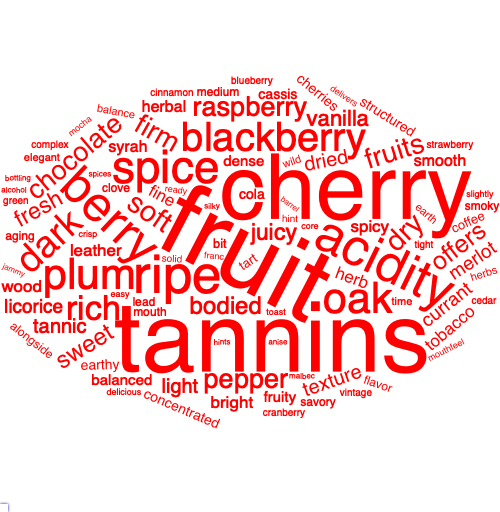
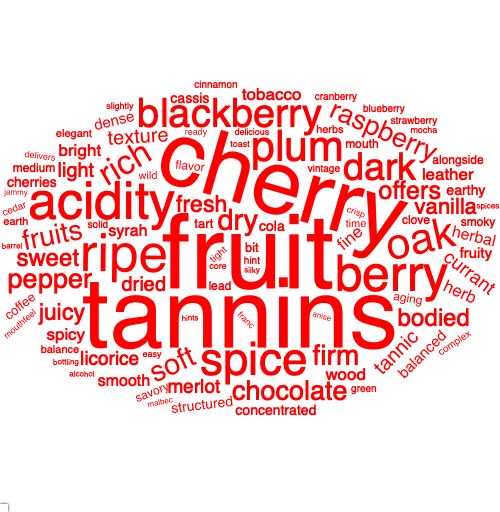
add more word cloud to exloratory analysis

Changed region(s): [[0.0, 0.125, 1.0, 0.8438]]

diff --git a/word_cloud.html b/word_cloud.html
@@ -523,22 +523,64 @@ low_sparkling = sparkling_df %&gt;% filter(points &lt; 90)</code></pre>
   
   # plot word cloud
   wine_word %&gt;% head(100) %&gt;% 
-    wordcloud2(size = 0.58, color = color1, backgroundColor =   color2)
+    wordcloud2(size = 0.58, color = color1, backgroundColor = color2)
 }
 
-#par(mfrow = c(3,2))
-wine_word_cloud(red_df, &quot;red&quot;, &quot;white&quot;) </code></pre>
-<div id="htmlwidget-67bbcf32ebb02c73014a" style="width:672px;height:480px;" class="wordcloud2 html-widget"></div>
-<script type="application/json" data-for="htmlwidget-67bbcf32ebb02c73014a">{"x":{"word":["fruit","tannins","cherry","ripe","acidity","berry","spice","plum","oak","blackberry","dark","rich","soft","dry","firm","fruits","pepper","raspberry","chocolate","offers","sweet","bodied","fresh","juicy","vanilla","texture","dried","light","tannic","currant","merlot","licorice","bright","leather","spicy","herb","tobacco","fine","wood","syrah","herbal","smooth","dense","fruity","balanced","structured","earthy","cassis","concentrated","cola","cherries","coffee","tart","bit","medium","mouth","aging","clove","alongside","smoky","savory","lead","flavor","balance","herbs","time","earth","wild","elegant","hint","vintage","green","complex","cranberry","cinnamon","solid","strawberry","tight","cedar","blueberry","delicious","toast","delivers","mouthfeel","mocha","crisp","franc","core","ready","slightly","easy","barrel","jammy","spices","alcohol","hints","silky","anise","bottling","malbec"],"freq":[30430,28460,26415,15588,15207,14536,13550,12561,12496,11631,11098,9970,8523,8438,8041,8018,8007,7992,7890,7316,7048,7030,6737,6688,6412,5942,5934,5728,5718,5652,5633,5560,5021,4884,4880,4870,4863,4845,4844,4694,4664,4628,4484,4429,4273,4143,4117,4113,4059,4000,3967,3902,3762,3707,3615,3601,3586,3565,3563,3440,3421,3395,3374,3285,3279,3275,3220,3206,3074,3057,3034,3030,3015,2981,2947,2946,2891,2845,2837,2775,2761,2734,2726,2714,2710,2709,2694,2631,2564,2539,2517,2463,2450,2444,2442,2405,2377,2367,2336,2300],"fontFamily":"Segoe UI","fontWeight":"bold","color":"red","minSize":0,"weightFactor":0.00343082484390404,"backgroundColor":"white","gridSize":0,"minRotation":-0.785398163397448,"maxRotation":0.785398163397448,"shuffle":true,"rotateRatio":0.4,"shape":"circle","ellipticity":0.65,"figBase64":null,"hover":null},"evals":[],"jsHooks":[]}</script>
-<pre class="r"><code>wine_word_cloud(white_df, &quot;orange&quot;, &quot;white&quot;)</code></pre>
-<div id="htmlwidget-ca14832a65369c849f01" style="width:672px;height:480px;" class="wordcloud2 html-widget"></div>
-<script type="application/json" data-for="htmlwidget-ca14832a65369c849f01">{"x":{"word":["acidity","fruit","apple","ripe","citrus","lemon","fresh","crisp","pear","peach","dry","green","rich","lime","texture","sweet","light","oak","bright","spice","fruits","vanilla","pineapple","tropical","yellow","fruity","grapefruit","bodied","melon","creamy","orange","honey","mineral","soft","clean","offers","apricot","balanced","stone","blanc","riesling","medium","refreshing","toast","freshness","minerality","juicy","zest","tart","hints","flavor","hint","tangerine","concentrated","zesty","floral","easy","mouth","richness","lively","slightly","wood","ready","balance","spicy","delicious","tangy","tight","smooth","apples","rounded","bit","fine","intense","finishes","aging","edge","textured","mouthfeel","simple","attractive","round","almond","sweetness","peel","complex","brisk","lightly","feel","cut","buttered","weight","dried","savory","delicate","elegant","body","nectarine","pepper","aromatic"],"freq":[12881,12531,9749,7975,7942,7384,6895,6689,6477,6333,5937,5150,5136,4731,4483,4435,4400,3961,3492,3405,3320,3293,3240,3178,3149,3145,3113,3111,3104,3087,3039,3035,3023,3016,2958,2932,2775,2747,2419,2418,2371,2294,2226,2212,2093,2075,1865,1858,1830,1828,1743,1724,1716,1712,1706,1698,1665,1665,1644,1637,1635,1601,1600,1599,1547,1546,1519,1505,1484,1432,1389,1388,1373,1303,1288,1281,1257,1257,1255,1250,1243,1231,1212,1201,1182,1170,1162,1157,1146,1124,1122,1121,1118,1109,1108,1101,1099,1098,1075,1062],"fontFamily":"Segoe UI","fontWeight":"bold","color":"orange","minSize":0,"weightFactor":0.00810496079496933,"backgroundColor":"white","gridSize":0,"minRotation":-0.785398163397448,"maxRotation":0.785398163397448,"shuffle":true,"rotateRatio":0.4,"shape":"circle","ellipticity":0.65,"figBase64":null,"hover":null},"evals":[],"jsHooks":[]}</script>
-<pre class="r"><code>#wine_word_cloud(rose_df, &quot;pink&quot;, &quot;white&quot;)
+
+#wine_word_cloud(white_df, &quot;orange&quot;, &quot;white&quot;)
+#wine_word_cloud(rose_df, &quot;pink&quot;, &quot;white&quot;)
 #wine_word_cloud(sparkling_df, &quot;green&quot;, &quot;white&quot;)
 
 #wine_word_cloud(high_red, &quot;blue&quot;, &quot;white&quot;)
 #wine_word_cloud(low_red, &quot;purple&quot;, &quot;white&quot;)</code></pre>
-<p><img src="image/red_word.png" /></p>
+<div id="red-wine" class="section level1">
+<h1>Red wine</h1>
+<pre class="r"><code>wine_word_cloud(red_df, &quot;red&quot;, &quot;white&quot;)</code></pre>
+<div id="htmlwidget-f58cee0d9ad983fc719e" style="width:672px;height:480px;" class="wordcloud2 html-widget"></div>
+<script type="application/json" data-for="htmlwidget-f58cee0d9ad983fc719e">{"x":{"word":["fruit","tannins","cherry","ripe","acidity","berry","spice","plum","oak","blackberry","dark","rich","soft","dry","firm","fruits","pepper","raspberry","chocolate","offers","sweet","bodied","fresh","juicy","vanilla","texture","dried","light","tannic","currant","merlot","licorice","bright","leather","spicy","herb","tobacco","fine","wood","syrah","herbal","smooth","dense","fruity","balanced","structured","earthy","cassis","concentrated","cola","cherries","coffee","tart","bit","medium","mouth","aging","clove","alongside","smoky","savory","lead","flavor","balance","herbs","time","earth","wild","elegant","hint","vintage","green","complex","cranberry","cinnamon","solid","strawberry","tight","cedar","blueberry","delicious","toast","delivers","mouthfeel","mocha","crisp","franc","core","ready","slightly","easy","barrel","jammy","spices","alcohol","hints","silky","anise","bottling","malbec"],"freq":[30430,28460,26415,15588,15207,14536,13550,12561,12496,11631,11098,9970,8523,8438,8041,8018,8007,7992,7890,7316,7048,7030,6737,6688,6412,5942,5934,5728,5718,5652,5633,5560,5021,4884,4880,4870,4863,4845,4844,4694,4664,4628,4484,4429,4273,4143,4117,4113,4059,4000,3967,3902,3762,3707,3615,3601,3586,3565,3563,3440,3421,3395,3374,3285,3279,3275,3220,3206,3074,3057,3034,3030,3015,2981,2947,2946,2891,2845,2837,2775,2761,2734,2726,2714,2710,2709,2694,2631,2564,2539,2517,2463,2450,2444,2442,2405,2377,2367,2336,2300],"fontFamily":"Segoe UI","fontWeight":"bold","color":"red","minSize":0,"weightFactor":0.00343082484390404,"backgroundColor":"white","gridSize":0,"minRotation":-0.785398163397448,"maxRotation":0.785398163397448,"shuffle":true,"rotateRatio":0.4,"shape":"circle","ellipticity":0.65,"figBase64":null,"hover":null},"evals":[],"jsHooks":[]}</script>
+<div id="new-world-red-wine" class="section level2">
+<h2>New-world red wine</h2>
+<pre class="r"><code>wine_word_cloud(new_red, &quot;red&quot;, &quot;white&quot;)</code></pre>
+<div id="htmlwidget-0645cd4a13c46591e7fc" style="width:672px;height:480px;" class="wordcloud2 html-widget"></div>
+<script type="application/json" data-for="htmlwidget-0645cd4a13c46591e7fc">{"x":{"word":["fruit","cherry","tannins","oak","blackberry","ripe","acidity","dark","spice","plum","dry","rich","bodied","chocolate","soft","raspberry","pepper","sweet","berry","light","vanilla","texture","merlot","cherries","tannic","syrah","dried","currant","cola","tart","spicy","herb","offers","cassis","bit","fresh","medium","firm","cranberry","licorice","earthy","fine","complex","smooth","smoky","cedar","bottling","herbal","herbs","coffee","balanced","flavor","savory","tobacco","franc","juicy","time","balance","blackberries","strawberry","malbec","concentrated","blueberry","spices","green","alcohol","leather","earth","silky","bright","barrel","mouth","elegant","fruity","mocha","cinnamon","delicious","slightly","lead","clove","fruits","mouthfeel","vintage","currants","smoke","complexity","verdot","petit","pretty","jammy","tannin","tastes","hints","dense","jam","wild","deep","bottle","color","plenty"],"freq":[16940,14768,11727,8186,6967,6321,5864,5707,5560,5514,5341,5305,5295,5203,4944,4725,4670,4624,4518,3828,3781,3660,3542,3469,3418,3376,3182,3116,3047,3033,2936,2892,2816,2712,2662,2561,2550,2545,2534,2523,2370,2328,2317,2285,2268,2236,2234,2233,2228,2207,2198,2193,2175,2137,2113,2061,2032,2016,1999,1999,1991,1932,1914,1905,1887,1869,1864,1857,1853,1834,1827,1808,1772,1726,1696,1675,1646,1628,1626,1591,1589,1582,1555,1531,1526,1490,1479,1468,1454,1450,1450,1443,1440,1434,1434,1425,1422,1374,1367,1366],"fontFamily":"Segoe UI","fontWeight":"bold","color":"red","minSize":0,"weightFactor":0.0061629279811098,"backgroundColor":"white","gridSize":0,"minRotation":-0.785398163397448,"maxRotation":0.785398163397448,"shuffle":true,"rotateRatio":0.4,"shape":"circle","ellipticity":0.65,"figBase64":null,"hover":null},"evals":[],"jsHooks":[]}</script>
+</div>
+<div id="old-world-red-wine" class="section level2">
+<h2>Old-world red wine</h2>
+<pre class="r"><code>wine_word_cloud(old_red, &quot;red&quot;, &quot;white&quot;)</code></pre>
+<div id="htmlwidget-a24341109e71a85079a7" style="width:672px;height:480px;" class="wordcloud2 html-widget"></div>
+<script type="application/json" data-for="htmlwidget-a24341109e71a85079a7">{"x":{"word":["tannins","fruit","cherry","ripe","acidity","berry","spice","fruits","plum","firm","dark","rich","juicy","offers","blackberry","wood","fresh","oak","soft","alongside","structured","bright","dense","licorice","pepper","leather","aging","dry","raspberry","dried","fruity","tobacco","fine","currant","texture","vanilla","chocolate","delivers","sweet","smooth","concentrated","tannic","solid","clove","balanced","ready","merlot","hint","herb","wild","light","lead","mature","espresso","sangiovese","bodied","coffee","mouth","vintage","tight","toast","spicy","richness","attractive","core","whiff","earthy","crisp","crushed","powerful","generous","polished","earth","perfumed","elegant","underbrush","cinnamon","balance","time","grained","close","anise","delicious","prune","savory","fruitiness","mineral","weight","smoky","violet","blue","syrah","easy","glass","intense","velvety","baking","flower","freshness","chewy"],"freq":[15620,11664,9809,8574,8557,8008,7027,5869,5303,5269,4728,4406,4270,4231,3730,3682,3552,3331,3196,3138,2936,2927,2847,2825,2789,2778,2764,2719,2641,2607,2520,2441,2370,2287,2155,2150,2117,2096,2071,2053,1989,1864,1857,1847,1842,1837,1823,1739,1722,1660,1639,1567,1554,1537,1534,1530,1440,1398,1385,1383,1370,1348,1332,1314,1300,1292,1278,1264,1264,1249,1230,1215,1210,1190,1160,1152,1120,1119,1117,1094,1088,1072,1060,1057,1053,1049,1040,1038,1029,1017,1016,1010,1004,1002,1000,997,994,994,985,972],"fontFamily":"Segoe UI","fontWeight":"bold","color":"red","minSize":0,"weightFactor":0.00668373879641485,"backgroundColor":"white","gridSize":0,"minRotation":-0.785398163397448,"maxRotation":0.785398163397448,"shuffle":true,"rotateRatio":0.4,"shape":"circle","ellipticity":0.65,"figBase64":null,"hover":null},"evals":[],"jsHooks":[]}</script>
+</div>
+</div>
+<div id="white-wine" class="section level1">
+<h1>White wine</h1>
+<pre class="r"><code>wine_word_cloud(white_df, &quot;red&quot;, &quot;white&quot;)</code></pre>
+<div id="htmlwidget-cb180d7e0b91b9ebfc57" style="width:672px;height:480px;" class="wordcloud2 html-widget"></div>
+<script type="application/json" data-for="htmlwidget-cb180d7e0b91b9ebfc57">{"x":{"word":["acidity","fruit","apple","ripe","citrus","lemon","fresh","crisp","pear","peach","dry","green","rich","lime","texture","sweet","light","oak","bright","spice","fruits","vanilla","pineapple","tropical","yellow","fruity","grapefruit","bodied","melon","creamy","orange","honey","mineral","soft","clean","offers","apricot","balanced","stone","blanc","riesling","medium","refreshing","toast","freshness","minerality","juicy","zest","tart","hints","flavor","hint","tangerine","concentrated","zesty","floral","easy","mouth","richness","lively","slightly","wood","ready","balance","spicy","delicious","tangy","tight","smooth","apples","rounded","bit","fine","intense","finishes","aging","edge","textured","mouthfeel","simple","attractive","round","almond","sweetness","peel","complex","brisk","lightly","feel","cut","buttered","weight","dried","savory","delicate","elegant","body","nectarine","pepper","aromatic"],"freq":[12881,12531,9749,7975,7942,7384,6895,6689,6477,6333,5937,5150,5136,4731,4483,4435,4400,3961,3492,3405,3320,3293,3240,3178,3149,3145,3113,3111,3104,3087,3039,3035,3023,3016,2958,2932,2775,2747,2419,2418,2371,2294,2226,2212,2093,2075,1865,1858,1830,1828,1743,1724,1716,1712,1706,1698,1665,1665,1644,1637,1635,1601,1600,1599,1547,1546,1519,1505,1484,1432,1389,1388,1373,1303,1288,1281,1257,1257,1255,1250,1243,1231,1212,1201,1182,1170,1162,1157,1146,1124,1122,1121,1118,1109,1108,1101,1099,1098,1075,1062],"fontFamily":"Segoe UI","fontWeight":"bold","color":"red","minSize":0,"weightFactor":0.00810496079496933,"backgroundColor":"white","gridSize":0,"minRotation":-0.785398163397448,"maxRotation":0.785398163397448,"shuffle":true,"rotateRatio":0.4,"shape":"circle","ellipticity":0.65,"figBase64":null,"hover":null},"evals":[],"jsHooks":[]}</script>
+<div id="new-world-white-wine" class="section level2">
+<h2>New-world white wine</h2>
+<pre class="r"><code>wine_word_cloud(new_white, &quot;red&quot;, &quot;white&quot;)</code></pre>
+<div id="htmlwidget-8c985c8bb0952c977fab" style="width:672px;height:480px;" class="wordcloud2 html-widget"></div>
+<script type="application/json" data-for="htmlwidget-8c985c8bb0952c977fab">{"x":{"word":["fruit","acidity","apple","lemon","pear","dry","oak","citrus","peach","lime","crisp","ripe","sweet","vanilla","fresh","pineapple","green","bodied","light","rich","tropical","orange","melon","medium","texture","clean","grapefruit","blanc","toast","honey","balanced","spice","creamy","offers","tart","bright","stone","apricot","riesling","buttered","minerality","bit","soft","slightly","floral","balance","bottling","flavor","fruity","refreshing","hints","apples","tangerine","barrel","fermented","easy","brisk","fruits","butter","hint","spicy","mineral","complex","mouth","viognier","honeysuckle","finishes","caramel","yellow","mouthfeel","sugar","simple","richness","tastes","elegant","oaky","fine","body","juicy","nectarine","alcohol","savory","mango","concentrated","cream","lightly","mix","toasted","peel","zesty","nice","stainless","pears","subtle","lively","delicious","lead","scents","steel","blossom"],"freq":[5764,5341,5047,3796,3328,3327,3295,3182,3012,2908,2743,2695,2657,2508,2444,2270,2237,2213,2140,2118,2008,1866,1709,1686,1643,1570,1541,1515,1430,1425,1371,1359,1343,1305,1270,1223,1157,1153,1112,1095,1069,1024,1017,1002,950,942,889,888,885,882,835,833,811,807,774,770,765,762,745,740,739,738,734,726,722,720,710,696,695,674,673,660,658,646,613,608,600,588,588,584,583,581,575,574,572,571,569,564,555,552,549,539,535,535,534,532,528,528,528,526],"fontFamily":"Segoe UI","fontWeight":"bold","color":"red","minSize":0,"weightFactor":0.0181124219292158,"backgroundColor":"white","gridSize":0,"minRotation":-0.785398163397448,"maxRotation":0.785398163397448,"shuffle":true,"rotateRatio":0.4,"shape":"circle","ellipticity":0.65,"figBase64":null,"hover":null},"evals":[],"jsHooks":[]}</script>
+</div>
+<div id="old-world-white-wine" class="section level2">
+<h2>Old-world white wine</h2>
+<pre class="r"><code>wine_word_cloud(old_white, &quot;red&quot;, &quot;white&quot;)</code></pre>
+<div id="htmlwidget-df8a4988699e1050cc3d" style="width:672px;height:480px;" class="wordcloud2 html-widget"></div>
+<script type="application/json" data-for="htmlwidget-df8a4988699e1050cc3d">{"x":{"word":["acidity","fruit","ripe","apple","citrus","crisp","fresh","peach","rich","lemon","texture","dry","pear","fruits","yellow","mineral","bright","fruity","green","light","soft","spice","sweet","honey","creamy","apricot","ready","offers","wood","lime","freshness","balanced","stone","riesling","tight","grapefruit","zest","juicy","attractive","melon","refreshing","clean","rounded","aging","tangy","lively","richness","minerality","delicious","aftertaste","orange","intense","smooth","concentrated","almond","hint","textured","tropical","hints","edge","tangerine","pineapple","zesty","bodied","flower","toast","perfumed","blanc","mouth","easy","fine","flavor","fruitiness","spicy","floral","sweetness","dried","delicate","steely","vanilla","alongside","generous","aromatic","round","balance","medium","lightly","fragrant","tones","apples","structured","warm","simple","bitter","weight","mouthfeel","feel","aged","slightly","herbal"],"freq":[6544,5352,4479,3698,3544,3496,3382,2877,2692,2609,2509,2329,2225,2179,2123,2118,2040,2013,1739,1679,1678,1598,1528,1476,1465,1444,1420,1401,1292,1289,1195,1161,1155,1090,1038,1037,1027,996,995,976,956,921,918,908,888,882,868,856,854,850,850,841,836,821,813,780,778,774,773,765,753,739,736,728,728,705,696,694,687,673,669,630,620,619,613,602,593,580,569,569,559,556,530,527,525,521,514,512,506,495,486,484,472,458,454,452,451,445,445,434],"fontFamily":"Segoe UI","fontWeight":"bold","color":"red","minSize":0,"weightFactor":0.0159535452322738,"backgroundColor":"white","gridSize":0,"minRotation":-0.785398163397448,"maxRotation":0.785398163397448,"shuffle":true,"rotateRatio":0.4,"shape":"circle","ellipticity":0.65,"figBase64":null,"hover":null},"evals":[],"jsHooks":[]}</script>
+</div>
+</div>
+<div id="rose" class="section level1">
+<h1>Rose</h1>
+<pre class="r"><code>wine_word_cloud(rose_df, &quot;red&quot;, &quot;white&quot;)</code></pre>
+<div id="htmlwidget-114338febe0ce120bc05" style="width:672px;height:480px;" class="wordcloud2 html-widget"></div>
+<script type="application/json" data-for="htmlwidget-114338febe0ce120bc05">{"x":{"word":["acidity","fruit","crisp","light","ripe","strawberry","fresh","fruity","fruits","dry","cherry","bright","color","pink","texture","soft","raspberry","berry","citrus","rich","attractive","spice","orange","aftertaste","refreshing","pale","bodied","grenache","syrah","lively","peach","sweet","currant","ready","balanced","offers","caramel","clean","food","fruitiness","watermelon","medium","tangy","flavor","weight","pepper","delicious","smooth","mineral","tart","edge","lightly","plum","grapes","slightly","tight","mouth","vanilla","lemon","rounded","textured","hints","provence","freshness","perfumed","apple","colored","easy","melon","summer","cinsault","bit","zest","pretty","grapefruit","apéritif","spicy","mourvèdre","salmon","delicate","estate","fine","hint","plenty","produced","balance","intense","stone","packed","berries","flavored","merlot","juicy","simple","warm","bitter","body","richness","wild","lime"],"freq":[1652,1043,985,915,790,776,771,763,703,700,595,594,576,548,527,526,501,411,411,401,380,375,370,360,350,332,330,329,327,315,300,281,279,275,271,266,259,250,243,225,225,224,222,212,195,190,186,182,179,178,175,172,169,166,166,166,164,162,161,159,157,156,155,154,154,150,149,144,144,143,142,141,139,138,134,133,133,132,130,129,129,125,124,124,123,115,115,115,112,111,111,111,110,109,108,102,101,101,100,99],"fontFamily":"Segoe UI","fontWeight":"bold","color":"red","minSize":0,"weightFactor":0.0631961259079903,"backgroundColor":"white","gridSize":0,"minRotation":-0.785398163397448,"maxRotation":0.785398163397448,"shuffle":true,"rotateRatio":0.4,"shape":"circle","ellipticity":0.65,"figBase64":null,"hover":null},"evals":[],"jsHooks":[]}</script>
+</div>
+<div id="sparkling" class="section level1">
+<h1>Sparkling</h1>
+<pre class="r"><code>wine_word_cloud(sparkling_df, &quot;red&quot;, &quot;white&quot;)</code></pre>
+<div id="htmlwidget-84ee74b576267d4e7ff6" style="width:672px;height:480px;" class="wordcloud2 html-widget"></div>
+<script type="application/json" data-for="htmlwidget-84ee74b576267d4e7ff6">{"x":{"word":["apple","acidity","fruit","dry","crisp","fresh","ripe","citrus","rich","soft","texture","creamy","light","lemon","fruity","sweet","champagne","fruits","balanced","lime","green","bright","fine","peach","sparkler","offers","yeasty","lively","brut","ready","toast","mousse","pear","mineral","orange","clean","color","strawberry","bottle","mouth","vanilla","elegant","bubbles","tight","aftertaste","bread","freshness","pink","attractive","delicious","bubbly","yellow","mature","raspberry","richness","flavor","hint","yeast","stone","toasty","slightly","vintage","spice","zest","hints","balance","bodied","grapefruit","honey","refreshing","smooth","almond","prosecco","edge","mouthfeel","berry","complex","cherry","dosage","easy","floral","tart","delicate","melon","rounded","toasted","feel","tangy","apéritif","baked","cava","fruitiness","tastes","foamy","bitter","grapes","frothy","delivers","bit","nectarine"],"freq":[1431,1349,1215,1016,952,881,810,756,582,580,556,521,499,493,458,451,431,410,404,394,384,375,371,371,359,350,346,333,332,332,318,314,310,306,301,296,289,289,285,283,278,272,271,266,256,254,248,246,243,226,225,224,222,219,209,204,202,201,200,200,199,197,193,193,192,190,186,186,186,186,183,182,175,171,170,165,164,163,157,157,157,156,154,147,145,145,143,142,140,140,140,137,132,131,130,129,128,127,125,124],"fontFamily":"Segoe UI","fontWeight":"bold","color":"red","minSize":0,"weightFactor":0.0729559748427673,"backgroundColor":"white","gridSize":0,"minRotation":-0.785398163397448,"maxRotation":0.785398163397448,"shuffle":true,"rotateRatio":0.4,"shape":"circle","ellipticity":0.65,"figBase64":null,"hover":null},"evals":[],"jsHooks":[]}</script>
+</div>
 
 
 
